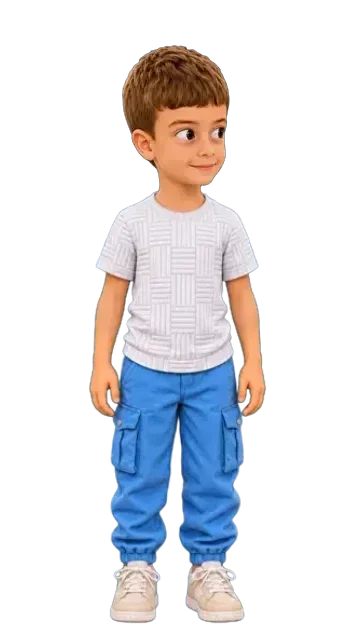
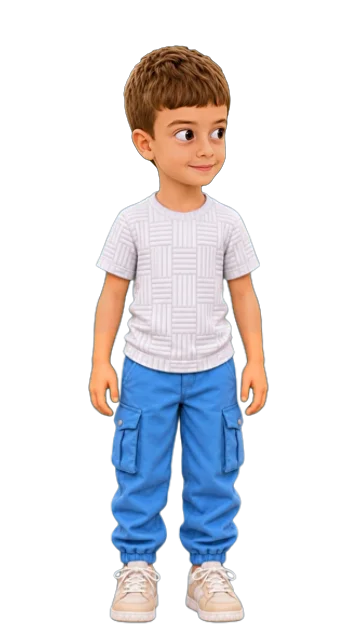
Арбель (поворот вправо) и Шакед (взгляд на яблоко): из видео взят только сам поворот, медленно и плавно, без лишних движений; Шакед больше не поворачивается к зрителю (видео неудачное)

diff --git a/js/kids.js b/js/kids.js
@@ -34,9 +34,10 @@ const KIDS = (() => {
   const FOOT = 1092 / 1152, FOOT_ARBEL = 0.972, FLAP_MS = 150, ANIM_MS = 3000, CHEW_MS = 23 / 12 * 1000, IDLE_MS = [8000, 16000], LAEL_LOOK_MS = [2500, 5000], FADE_MS = 300;   // Лаэль, глядя на яблоко, моргает и чуть двигается чаще (её lookidle — любимое у автора)
   const GLANCE_EVERY = [6000, 10000], GLANCE_HOLD = [900, 1200];   // ждут: раз в 6–10 с — короткий взгляд (около секунды)
   // ждут: Арбель и Шакед вместе — на зрителя; Лаэль и Беэри — друг на друга; Лаэль — направо (не одно и то же два раза подряд)
-  const GLANCES = [[['arbel', '_glance'], ['shaked', '_glance']], [['lael', '_glance'], ['beeri', '_toR']], [['lael', '_right']]];
+  const GLANCES = [   // Арбель+Шакед на зрителя убрано: видео поворота Шакеда к зрителю неудачное (автор)
+    [['lael', '_glance'], ['beeri', '_toR']], [['lael', '_right']]];
   const FRONT = { arbel: true };                   // стоит анфас; к столу — видео turn, обратно — back (st.side — повёрнут к столу)
-  const DUR = { arbel_blink: 1250, arbel_turn: 1500, arbel_back: 1670, arbel_peek: 3080, arbel_laughf: 3150, arbel_glancef: 2170, arbel_upf: 2580, arbel_backfast: 580, beeri_turnA: 1580, beeri_turnAback: 1580, beeri_turnR: 1580, beeri_turnRback: 1580, lael_tolook: 2240, lael_fromlook: 2240, lael_lookidle: 1330, lael_gasp: 2320, beeri_gasp: 2320, arbel_gasp: 2320, shaked_gasp: 2320, lael_right: 3080 };
+  const DUR = { arbel_blink: 1250, arbel_turn: 1500, arbel_back: 1670, arbel_peek: 3080, arbel_laughf: 3150, arbel_glancef: 2170, arbel_upf: 2580, arbel_backfast: 580, beeri_turnA: 1580, beeri_turnAback: 1580, beeri_turnR: 1580, beeri_turnRback: 1580, shaked_tolook: 1910, shaked_fromlook: 1910, shaked_lookidle: 1910, lael_tolook: 2240, lael_fromlook: 2240, lael_lookidle: 1330, lael_gasp: 2320, beeri_gasp: 2320, arbel_gasp: 2320, shaked_gasp: 2320, lael_right: 3080 };
   const FRONT_ANIMS = ['blink', 'glancef', 'upf', 'turn', 'back', 'backfast', 'peek', 'laughf'];
   const FRONT_IDLE_MS = [3500, 7000];             // анфас Арбель двигается чаще: у него движения короче (1–3 с), чем «стоит» у остальных
   // куда смотрит слушатель, когда говорит [кто]: суффикс картинки; 'side' — Арбель поворачивает голову к столу (там все); нет — не меняется
